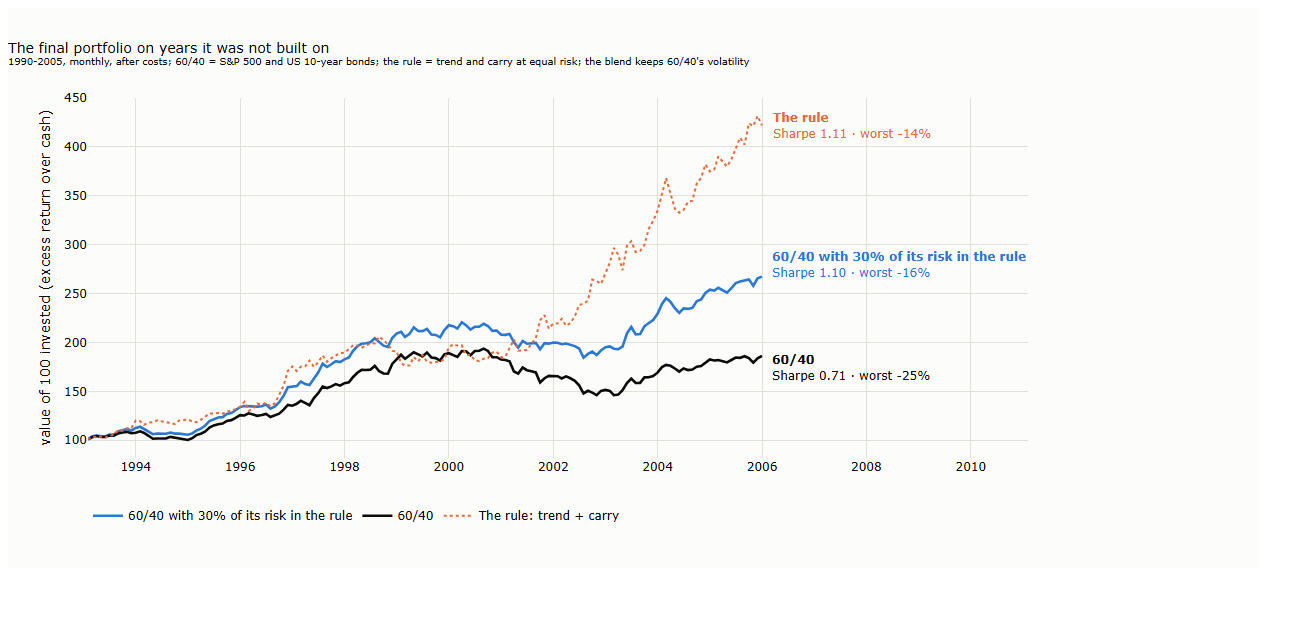
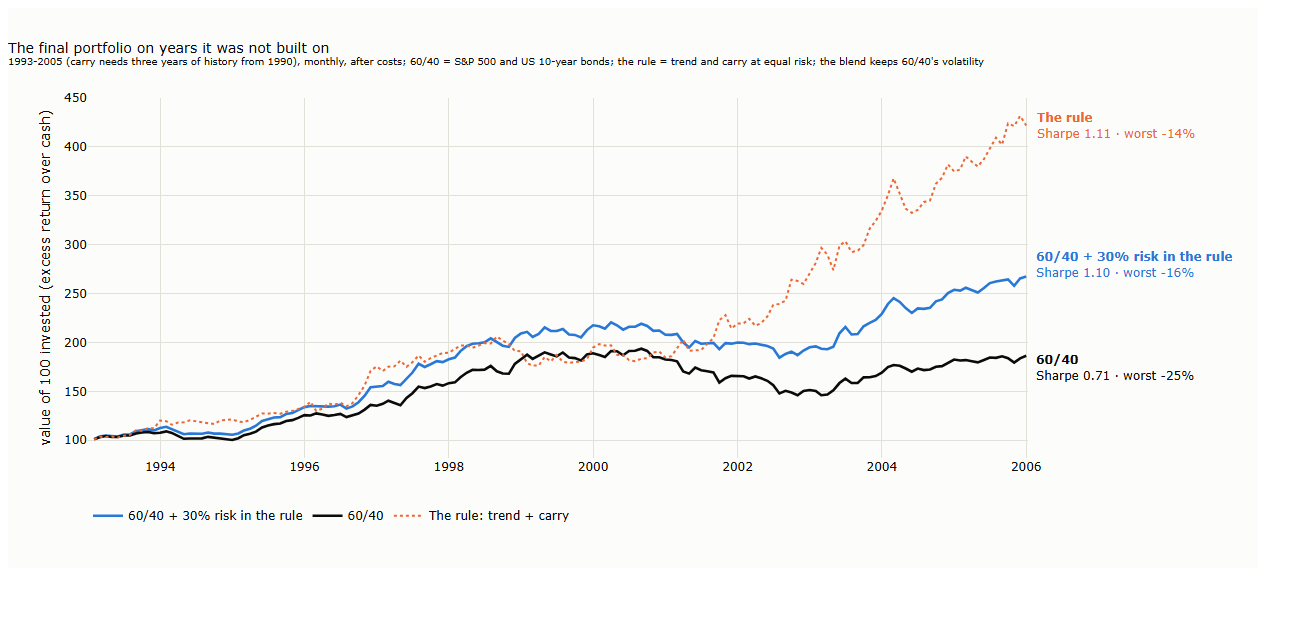
L30: key chart (1993-2005), group start months recorded

diff --git a/lectures/30-the-final-portfolio/scripts/l30_test.py b/lectures/30-the-final-portfolio/scripts/l30_test.py
@@ -78,7 +78,7 @@ if __name__ == "__main__":
     (RES / "test.json").write_text(json.dumps(out, indent=1), encoding="utf-8")
     # key chart: 1990-2005, money over time
     o = out["1990-2005"]; tr, a, b = periods["1990-2005"]; rule = combine([tr.loc[a:b], carry.loc[a:b]], tr.loc[a:b]); lo = LO.reindex(rule.index)
-    lines = (("60/40 with 30% of its risk in the rule", blend(lo["60/40"], rule, 0.3), SERIES[0], "solid"), ("60/40", lo["60/40"], INK, "solid"),
+    lines = (("60/40 + 30% risk in the rule", blend(lo["60/40"], rule, 0.3), SERIES[0], "solid"), ("60/40", lo["60/40"], INK, "solid"),
              ("The rule: trend + carry", rule, SERIES[1], "dot"))
     fig = go.Figure()
     for (name, r, col, dash), dy in zip(lines, (12, -12, 0)):
@@ -87,7 +87,8 @@ if __name__ == "__main__":
         fig.add_annotation(x=x[-1], y=w.iloc[-1], text=f"<b>{name.split(':')[0]}</b><br>Sharpe {st['sharpe']:.2f} · worst {st['maxdd']:.0%}", showarrow=False,
                            xanchor="left", xshift=8, yshift=dy, align="left", font=dict(size=12, color=col))
     fig.update_yaxes(title_text="value of 100 invested (excess return over cash)")
-    fig.update_layout(title="The final portfolio on years it was not built on<br><sup>1990-2005, monthly, after costs; 60/40 = S&P 500 and US 10-year bonds; "
+    fig.update_xaxes(range=[rule.index[0].to_timestamp(), rule.index[-1].to_timestamp() + pd.Timedelta(days=40)])
+    fig.update_layout(title="The final portfolio on years it was not built on<br><sup>1993-2005 (carry needs three years of history from 1990), monthly, after costs; 60/40 = S&P 500 and US 10-year bonds; "
                             "the rule = trend and carry at equal risk; the blend keeps 60/40's volatility</sup>",
                       height=560, width=1250, margin=dict(t=90, l=80, r=230, b=110), legend=dict(orientation="h", y=-0.12, x=0))
     save_figure(fig, os.environ.get("L30_PREFIX", "") + "30_key", FIG)

diff --git a/lectures/30-the-final-portfolio/results/hypotheses.md b/lectures/30-the-final-portfolio/results/hypotheses.md
@@ -54,3 +54,4 @@ Not to diminish the result but to set direction. Large multi-strategy funds ofte
 **2006-2022, reference.** Trend 0.67, carry 0.54, the rule 0.84, the rival 0.81; 60/40 0.66; 60/40 with 30% in the rule 0.93.
 **Costs.** At 10 bp per trade on carry the rule earns 1.01 (1990-2005) and 0.68 (2006-2022); at 20 bp 0.82 and **0.36**, below trend alone: carry's edge is fragile to costs, since its scores move every month.
 **Reading for the realistic expectation.** 1990-2005 was carry's best era (currency and bond carry before the 2008 unwind); monthly Sharpe ratios run about a fifth above daily ones (trend 1990-2005: 0.78 monthly, 0.64 daily); the 2013-2026 ETF years gave the rule 0.45. These go into the haircut table.
+**When each carry group trades in the test** (first month with a position, after each group's three years of scaling history): currencies 1990, bonds 1995, equities 2001, commodities 2004; the rule's chart starts in 1993. So 1993-1995 is currency carry only, 1995-2001 currencies and bonds.
